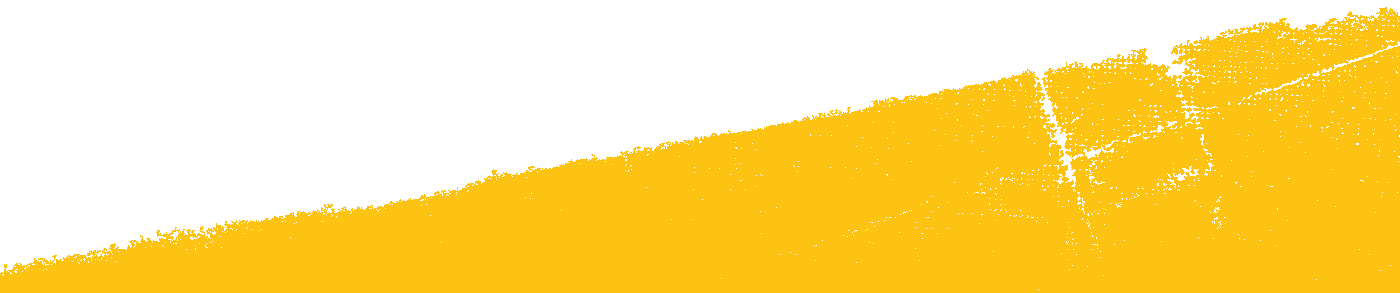
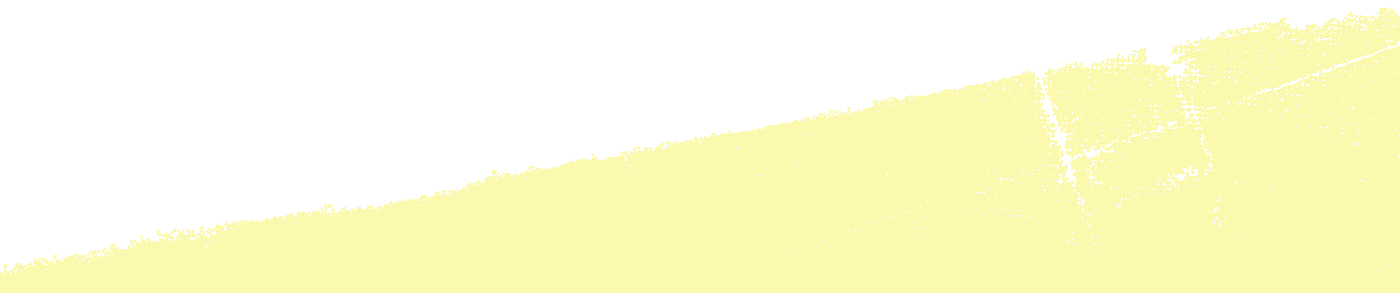
Change the colors and the new visual identity

diff --git a/content/pages/about.html b/content/pages/about.html
@@ -5,6 +5,7 @@
     <meta charset="utf-8" />
     <meta name="slug" content="a-propos" />
     <meta name="save_as" content="index.html" />
+    <meta name="template_type" content="full-html" />
 
     <meta name="og_url" content="http://www.vieuxsinge.com/" />
     <meta name="og_type" content="website" />
@@ -24,26 +25,9 @@
   <!-- Wrapper -->
     <section id="wrapper">
 
-      <!-- Newsletter -->
-      <section class="wrapper style3">
-        <div class="inner">
-          <form action="//vieuxsinge.us14.list-manage.com/subscribe/post?u=ecec080a5e9aa46166b5ff3bb&amp;id=291587aeda" method="post" class="subscribe">
-              <strong>Vous souhaitez être tenu au courant de notre actualité ? Inscrivez-vous à la lettre d'information !</strong>
-              <div class="row uniform">
-                <div class="7u">
-                  <input type="email" name="EMAIL" class="fit small" id="mce-EMAIL" placeholder="Votre adresse email" required>
-                  <!-- real people should not fill this in and expect good things - do not remove this or risk form bot signups-->
-                  <div style="position: absolute; left: -5000px;" aria-hidden="true">
-                    <input type="text" name="b_ecec080a5e9aa46166b5ff3bb_291587aeda" tabindex="-1" value="">
-                  </div>
-                </div>
-                <div class="5u">
-                  <button class="fit small" type="submit" name="subscribe" id="mc-embedded-subscribe">
-                    Inscrivez-vous
-                  </button>
-                </div>
-              </div>
-          </form>
+      <section class="wrapper style7">
+        <div class="inner align-center">
+            <strong>Vous voulez goûter ? <a href="https://boutique.vieuxsinge.com">Commandez en prévente jusqu'à fin Avril !</a></strong>
         </div>
       </section>
 
@@ -51,11 +35,11 @@
       <section id="bieres">
         <section class="wrapper style1">
           <div class="inner punctuated">
-            <h2 class="major">Nos Bières</h2>
+            <h2 class="major">Nos Engagements</h2>
             <span class="image right"><img src="images/about/gamme.png" alt=""></span>
-            <p>La puissance des houblons, la torréfaction du malt, le fruité des levures… Nous, on est tombés dedans en essayant, en dégustant, en testant des assemblages, en explorant des nouveaux goûts.</p>
-            <p>Nous vous offrons une gamme fixe de 3 recettes ainsi que des brassins uniques qui varient d'une saison à l'autre.</p>
-            <p>Nos bières sont toutes certifiées bio.</p>
+            <p>Nous souhaitons faire des bières goûtues, produites localement, en considérant notre impact environnemental et en favorisant l'entraide et le partage. Nous favorisons les circuits courts.</p>
+            <p>Nous pensons que la collaboration est meilleure que la compétition, c'est pourquoi les recettes de nos bières sont à disposition, et <a href="blog.html">nous publions nos avancées sur notre blog</a>.</p>
+            <p>Toutes nos bières sont biologiques. Retrouvez tous nos engagements dans <a href="manifeste.html">notre manifeste</a>.</p>
           </div>
         </section>
         <section class="wrapper spotlight style1">
@@ -178,7 +162,7 @@
       </section>
 
       <!-- Brasserie -->
-        <section id="brasserie" class="wrapper style1">
+        <section id="brasserie" class="wrapper separated style1">
           <div class="inner">
             <h2 class="major">La Brasserie</h2>
             <div class="punctuated">
@@ -208,6 +192,11 @@
                 </div>
               </div>
             </div>
+          </div>
+        </section>
+        <section class="wrapper style7">
+          <div class="inner align-center">
+              <strong>La brasserie ouvre bientôt ses portes. Si vous voulez goûter (et nous aider) vous pouvez <a href="https://boutique.vieuxsinge.com">commander en prévente jusqu'à fin Avril.</a></strong>
           </div>
         </section>
       </section>

diff --git a/theme/static/css/main.css b/theme/static/css/main.css
@@ -3224,6 +3224,10 @@
                 width: 2.25em;
             }
 
+        #banner .logo > img {
+          width: 30%;
+        }
+
         #banner h2 {
             -moz-transition: opacity 0.5s ease, -moz-transform 0.5s ease, -moz-filter 0.25s ease;
             -webkit-transition: opacity 0.5s ease, -webkit-transform 0.5s ease, -webkit-filter 0.25s ease;
@@ -3504,7 +3508,16 @@
             background-color: #555867;
         }
 
-        .wrapper.spotlight:before {
+        .wrapper.style7 {
+            background-color: #000;
+            color: #fff;
+        }
+        .wrapper.style7 form {
+            background-color: #000;
+            color: #fff;
+        }
+
+        .wrapper.spotlight:before, .separated:before {
             background-repeat: no-repeat;
             background-size: 100% 100%;
             content: '';
@@ -3536,7 +3549,7 @@
             border-bottom: none;
             font-weight: bold;
             font-size: 1.5em;
-                text-align: center;
+            text-align: center;
         }
 
         .wrapper.spotlight h4 {
@@ -3571,7 +3584,7 @@
             }
 
             .wrapper.spotlight .header {
-                height: 12em;
+                height: 16em;
                 text-align: center;
             }
 
@@ -3582,10 +3595,6 @@
             .wrapper.spotlight .footer {
                 height: 5em;
                 text-align: center;
-            }
-
-            .wrapper.spotlight .footer img {
-                height: 100%;
             }
 
             .wrapper.spotlight .image {
@@ -3607,7 +3616,7 @@
             }
 
             .wrapper.spotlight.style1 {
-            background-color: #ffe95f;
+            background-color: #fbd150;
             }
 
             .wrapper.spotlight.style1 h2,
@@ -3622,13 +3631,13 @@
             }
 
             .wrapper.spotlight.style2 {
-                background-color: #fcc312;
+                background-color: #faf9ad;
             }
 
             .wrapper.spotlight.style2 h2,
             .wrapper.spotlight.style2 h4,
             .wrapper.spotlight.style2 .style {
-                color: #fcf8bb;
+                color: #69c993;
             }
 
                 .wrapper.spotlight.style2:before {
@@ -3651,6 +3660,18 @@
 
             .wrapper.spotlight.style4 {
                 background-color: #39477c;
+            }
+
+            .wrapper.separated.style1:before{
+                background-image: url("../images/separator4.png");
+                background-color: #87a1a2;
+            }
+            .wrapper.separated.style1 {
+              margin-top: 9em;
+              background-color: #fff;
+            }
+            .wrapper.spotlight.style3 .inner {
+              padding-bottom: 0px !important;
             }
 
         @media screen and (max-width: 980px) {
@@ -7703,4 +7724,9 @@
 
 #mc_embed_signup {
   padding: 50px;
+}
+
+.white {
+  background-color: #fff !important;
+  color: #000 !important;
 }

diff --git a/theme/templates/page.html b/theme/templates/page.html
@@ -13,5 +13,33 @@
     {% import 'translations.html' as translations with context %}
     {{ translations.translations_for(page) }}
 
+    {% if page.template_type != 'full-html' %}
+    <!-- Wrapper -->
+      <section id="wrapper">
+
+        <!-- Content -->
+          <div class="wrapper style1">
+
+            <header class="article">
+              <div class="image"><img src="{{ page.image }}" alt="" /></div>
+              <div class="inner">
+                <h2 class="major">
+                  {{ page.title }}
+                  <span>{{ page.accroche }}</span>
+                </h2>
+              </div>
+            </header>
+
+            <div class="inner">
+              {{ page.content }}
+              {% if page.image and page.image_link and page.image_author and page.image_license %}
+              <em>L'image qui illustre cet article est un travail de <a href="{{ page.image_link }}">{{ page.image_author}}</a> proposé sous license {{ page.image_license }}. Merci !</em>
+              {% endif %}
+            </div>
+          </div>
+
+      </section>
+    {% else %}
     {{ page.content }}
+    {% endif %}
 {% endblock %}
